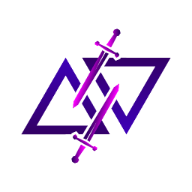
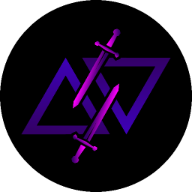
Redesign done.

diff --git a/src/pages/main-style.css b/src/pages/main-style.css
@@ -15,8 +15,7 @@
 
 html {
   height: 100%;
-  background: linear-gradient(rgb(57, 58, 71) 0%, rgb(0, 0, 0) 100%) no-repeat;
-  background-color: black;
+  background-color: rgb(28, 28, 34);
   color: whitesmoke;
   font-family: "Old Standard TT", serif;
 }
@@ -24,14 +23,43 @@ html {
 body {
   height: 100%;
   width: 100%;
+  margin: auto;
+  /* background-image: url(../images/bg-logo.png);
+  background-repeat: no-repeat;
+  background-position: center;
+  background-size: contain; */
+}
+#after-header {
+  width: 100%;
   max-width: 1500px;
   margin: auto;
+  
+}
+#root {
+  height: inherit;
 }
 
 h1 {
   margin-left: 3%;
   font-size: 3rem;
   font-weight: 900;
+}
+
+footer {
+  display: flex;
+  justify-content: space-evenly;
+  margin-top: auto;
+  padding: 50px 5%;
+}
+footer a {
+  margin-top: auto;
+  text-decoration: none;
+  color: var(--list-color);
+  transition: .3s;
+  font-size: 1.5rem;
+}
+footer a:hover {
+  color: whitesmoke;
 }
 
 .flex-col {
@@ -56,11 +84,11 @@ h1 {
 .form-input {
   background-color: var(--main-form-bg-color);
   color: whitesmoke;
-  font-size: 1rem;
+  font-size: 1.5rem;
   width: 100%;
 
   margin-top: 20px;
-  padding: 20px;
+  padding: 30px 20px;
 
   border: 0;
   border-radius: 12px;
@@ -83,6 +111,7 @@ h1 {
   margin-top: 20px;
   gap: 1px;
   justify-content: space-between;
+  font-size: 1.2rem;
 }
 
 .form-radio span {
@@ -92,7 +121,7 @@ h1 {
   background-color: var(--main-form-bg-color);
   color: var(--placeholder-color);
   width: 25%;
-  padding: 20px 0;
+  padding: 25px 0;
 
   align-items: center;
 
@@ -166,11 +195,11 @@ h1 {
   background-color: transparent;
   border: 0;
   margin-top: 20px;
-  padding: 10px;
+  padding: 20px;
   padding-left: 20px;
-  height: 48px;
+  height: 64px;
   color: whitesmoke;
-  font-size: 1rem;
+  font-size: 1.5rem;
   cursor: pointer;
 }
 .form-button::before {
@@ -181,7 +210,7 @@ h1 {
   left: 0;
   height: 100%;
   width: 100%;
-  background: linear-gradient(45deg, #4fc732, #34a259);
+  background: linear-gradient(45deg, #3d00b7, #33006a);
   z-index: -1;
 
   transition: opacity .25s ease;;
@@ -194,9 +223,9 @@ h1 {
   left: 0;
   height: 100%;
   width: 100%;
-  background: linear-gradient(45deg, #6ed723, #49ba4e);
-  z-index: -1;
+  background: linear-gradient(45deg, #68018b, #c900d7);
   opacity: 0;
+  z-index: -1;
 
   transition: opacity .25s ease;
 }
@@ -286,4 +315,24 @@ h1 {
 }
 .list-sum {
   color: whitesmoke;
+}
+
+.contacts {
+  position: absolute;
+  top: 60px;
+  right: 30px;
+  display: flex;
+  gap: 5px;
+  justify-content: center;
+  align-items: center;
+  color: black;
+}
+.contacts svg {
+  width: 30px;
+  height: 30px;
+  color: black;
+  transition: .3s;
+}
+.contacts svg:hover {
+  color: white;
 }

diff --git a/src/components/parts/payment-info.jsx b/src/components/parts/payment-info.jsx
@@ -18,6 +18,16 @@ export default function PayInfo() {
                 <span className="list-line"></span>
                 <div className="list-sum">~ {amount ? (amount * 0.75) : "0"}₽</div>
             </section>
+            <section>
+                <div className="list-txt">Процент сайта (6%):</div>
+                <span className="list-line"></span>
+                <div className="list-sum"> {amount ? (amount * 0.06) : "0"}₽</div>
+            </section>
+            <section>
+                <div className="list-txt">Издержки банка:</div>
+                <span className="list-line"></span>
+                <div className="list-sum"> {amount ? (amount) : "0"}₽</div>
+            </section>
         </div>
     )
 }

diff --git a/src/components/parts/input-form.jsx b/src/components/parts/input-form.jsx
@@ -92,22 +92,7 @@ export default function InputForm() {
           1000₽
         </span>
       </div>
-
-      {/* ЧЕКБОКС СОГЛАСИЯ */}
-
-      <div className={"form-agree " + (isActive ? "checked" : "")}>
-        {/* <div className={"form-check" + (isActive ? "checked" : "")}> */}
-          <input
-            id="agree"
-            type="checkbox"
-            name="confirm"
-            onChange={handleCheckChange}
-          />
-          {/* <FcCheckmark /> */}
-        {/* </div> */}
-
-        <label htmlFor="agree">Я указал логин аккаунта, а не никнейм</label>
-      </div>
+  
 
       {/* КНОПКА ПОПОЛНЕНИЯ */}
 

diff --git a/src/pages/main-page.jsx b/src/pages/main-page.jsx
@@ -3,13 +3,19 @@ import Header from "../components/header";
 import Content from "../components/content";
 
 import "./main-style.css";
+import Contacts from "../components/contacts";
+import Footer from "../components/footer";
 
 export default function MainPage() {
   return (
     <>
+      <Contacts />
       <Header />
-      <h1>Пополнить баланс Steam</h1>
-      <Content />
+      <div id="after-header">
+        <h1>Пополнить баланс Steam</h1>
+        <Content />
+      </div>
+      <Footer />
     </>
   );
 }

diff --git a/src/components/contacts.jsx b/src/components/contacts.jsx
@@ -1,0 +1,17 @@
+import React from "react";
+
+import { RiTelegramLine } from "react-icons/ri"
+import { SlSocialVkontakte } from "react-icons/sl"
+import { GrMail } from "react-icons/gr"
+
+export default function Contacts() {
+    return(
+        <>
+            <nav className="contacts">
+                <a href=""><RiTelegramLine /></a>
+                <a href=""><SlSocialVkontakte /></a>
+                <a href=""><GrMail /></a>
+            </nav>
+        </>
+    )
+}

diff --git a/src/components/footer.jsx b/src/components/footer.jsx
@@ -1,0 +1,11 @@
+import React from "react";
+
+export default function Footer() {
+    return(
+        <footer>
+            <a href="">О нас</a>
+            <a href="">Контакты</a>
+            <a href="">Отзывы</a>
+        </footer>
+    )
+}

diff --git a/src/components/header.jsx b/src/components/header.jsx
@@ -1,5 +1,5 @@
 import React from "react";
-import icon from "../images/logoWhite.png";
+import icon from "../images/logo.png";
 
 import './header.css'
 

diff --git a/src/components/header.css b/src/components/header.css
@@ -3,5 +3,5 @@ header {
 }
 
 img {
-    height: 100px;
+    height: 150px;
 }
